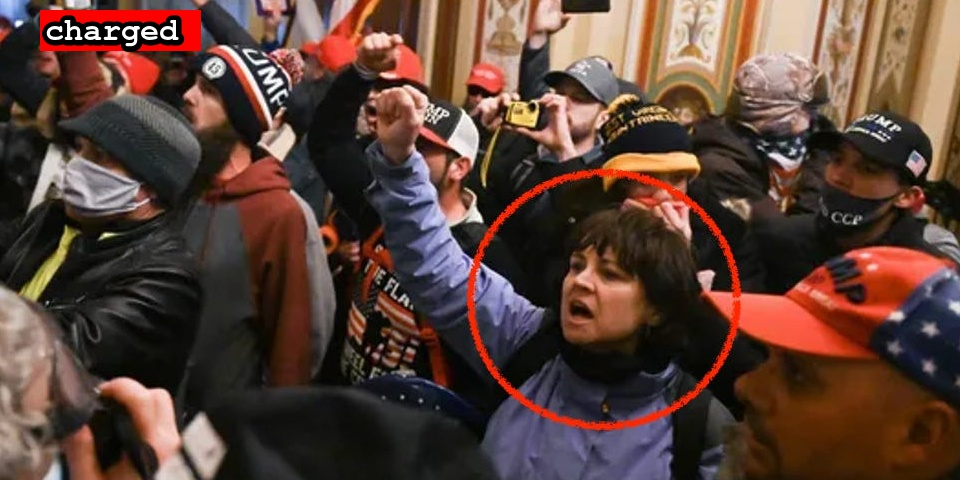
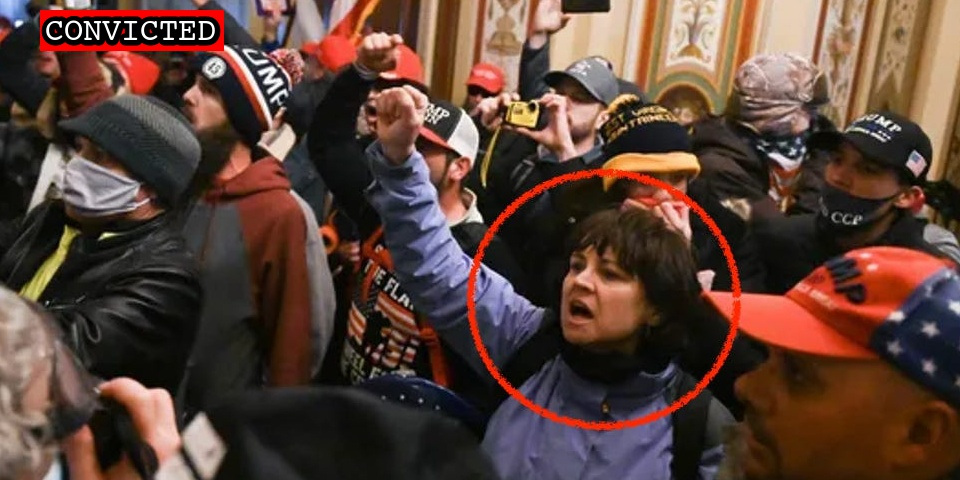
Ianni plea

Changed region(s): [[0.0312, 0.0, 0.25, 0.125]]

diff --git a/docs/_suspects/suzanne-ianni.md b/docs/_suspects/suzanne-ianni.md
@@ -4,16 +4,19 @@ lastName: Ianni
 hashtag: SueIanni
 aka:
 residence: Massachusetts
-status: Charged
+status: Convicted
 date: 2021-01-19
 charged: 2021-01-19
 indicted:
-convicted:
+convicted: 2022-09-14
+acquitted:
 sentenced:
 dismissed:
 deceased:
-plea_hearing:
-sentencing:
+plea_hearing: 2022-09-14
+trial_date:
+trial_type:
+sentencing: 2022-12-02
 age: 59
 occupation:
 affiliations: Super Happy Fun America (anti-LQBTQ group)
@@ -34,6 +37,10 @@ published: true
 caseNumber: 1:21-cr-451
 videos:
 charges:
+  - code: 40 USC § 5104(e)(2)(D)
+    title: Disorderly Conduct in a Capitol Building
+    url: https://www.law.cornell.edu/uscode/text/40/5104
+    felony: false
 sentence:
 ---
 

diff --git a/docs/_suspects/david-johnston.md b/docs/_suspects/david-johnston.md
@@ -13,7 +13,7 @@ acquitted:
 sentenced:
 dismissed:
 deceased:
-plea_hearing:
+plea_hearing: 2022-09-23
 trial_date:
 sentencing:
 age: 69
